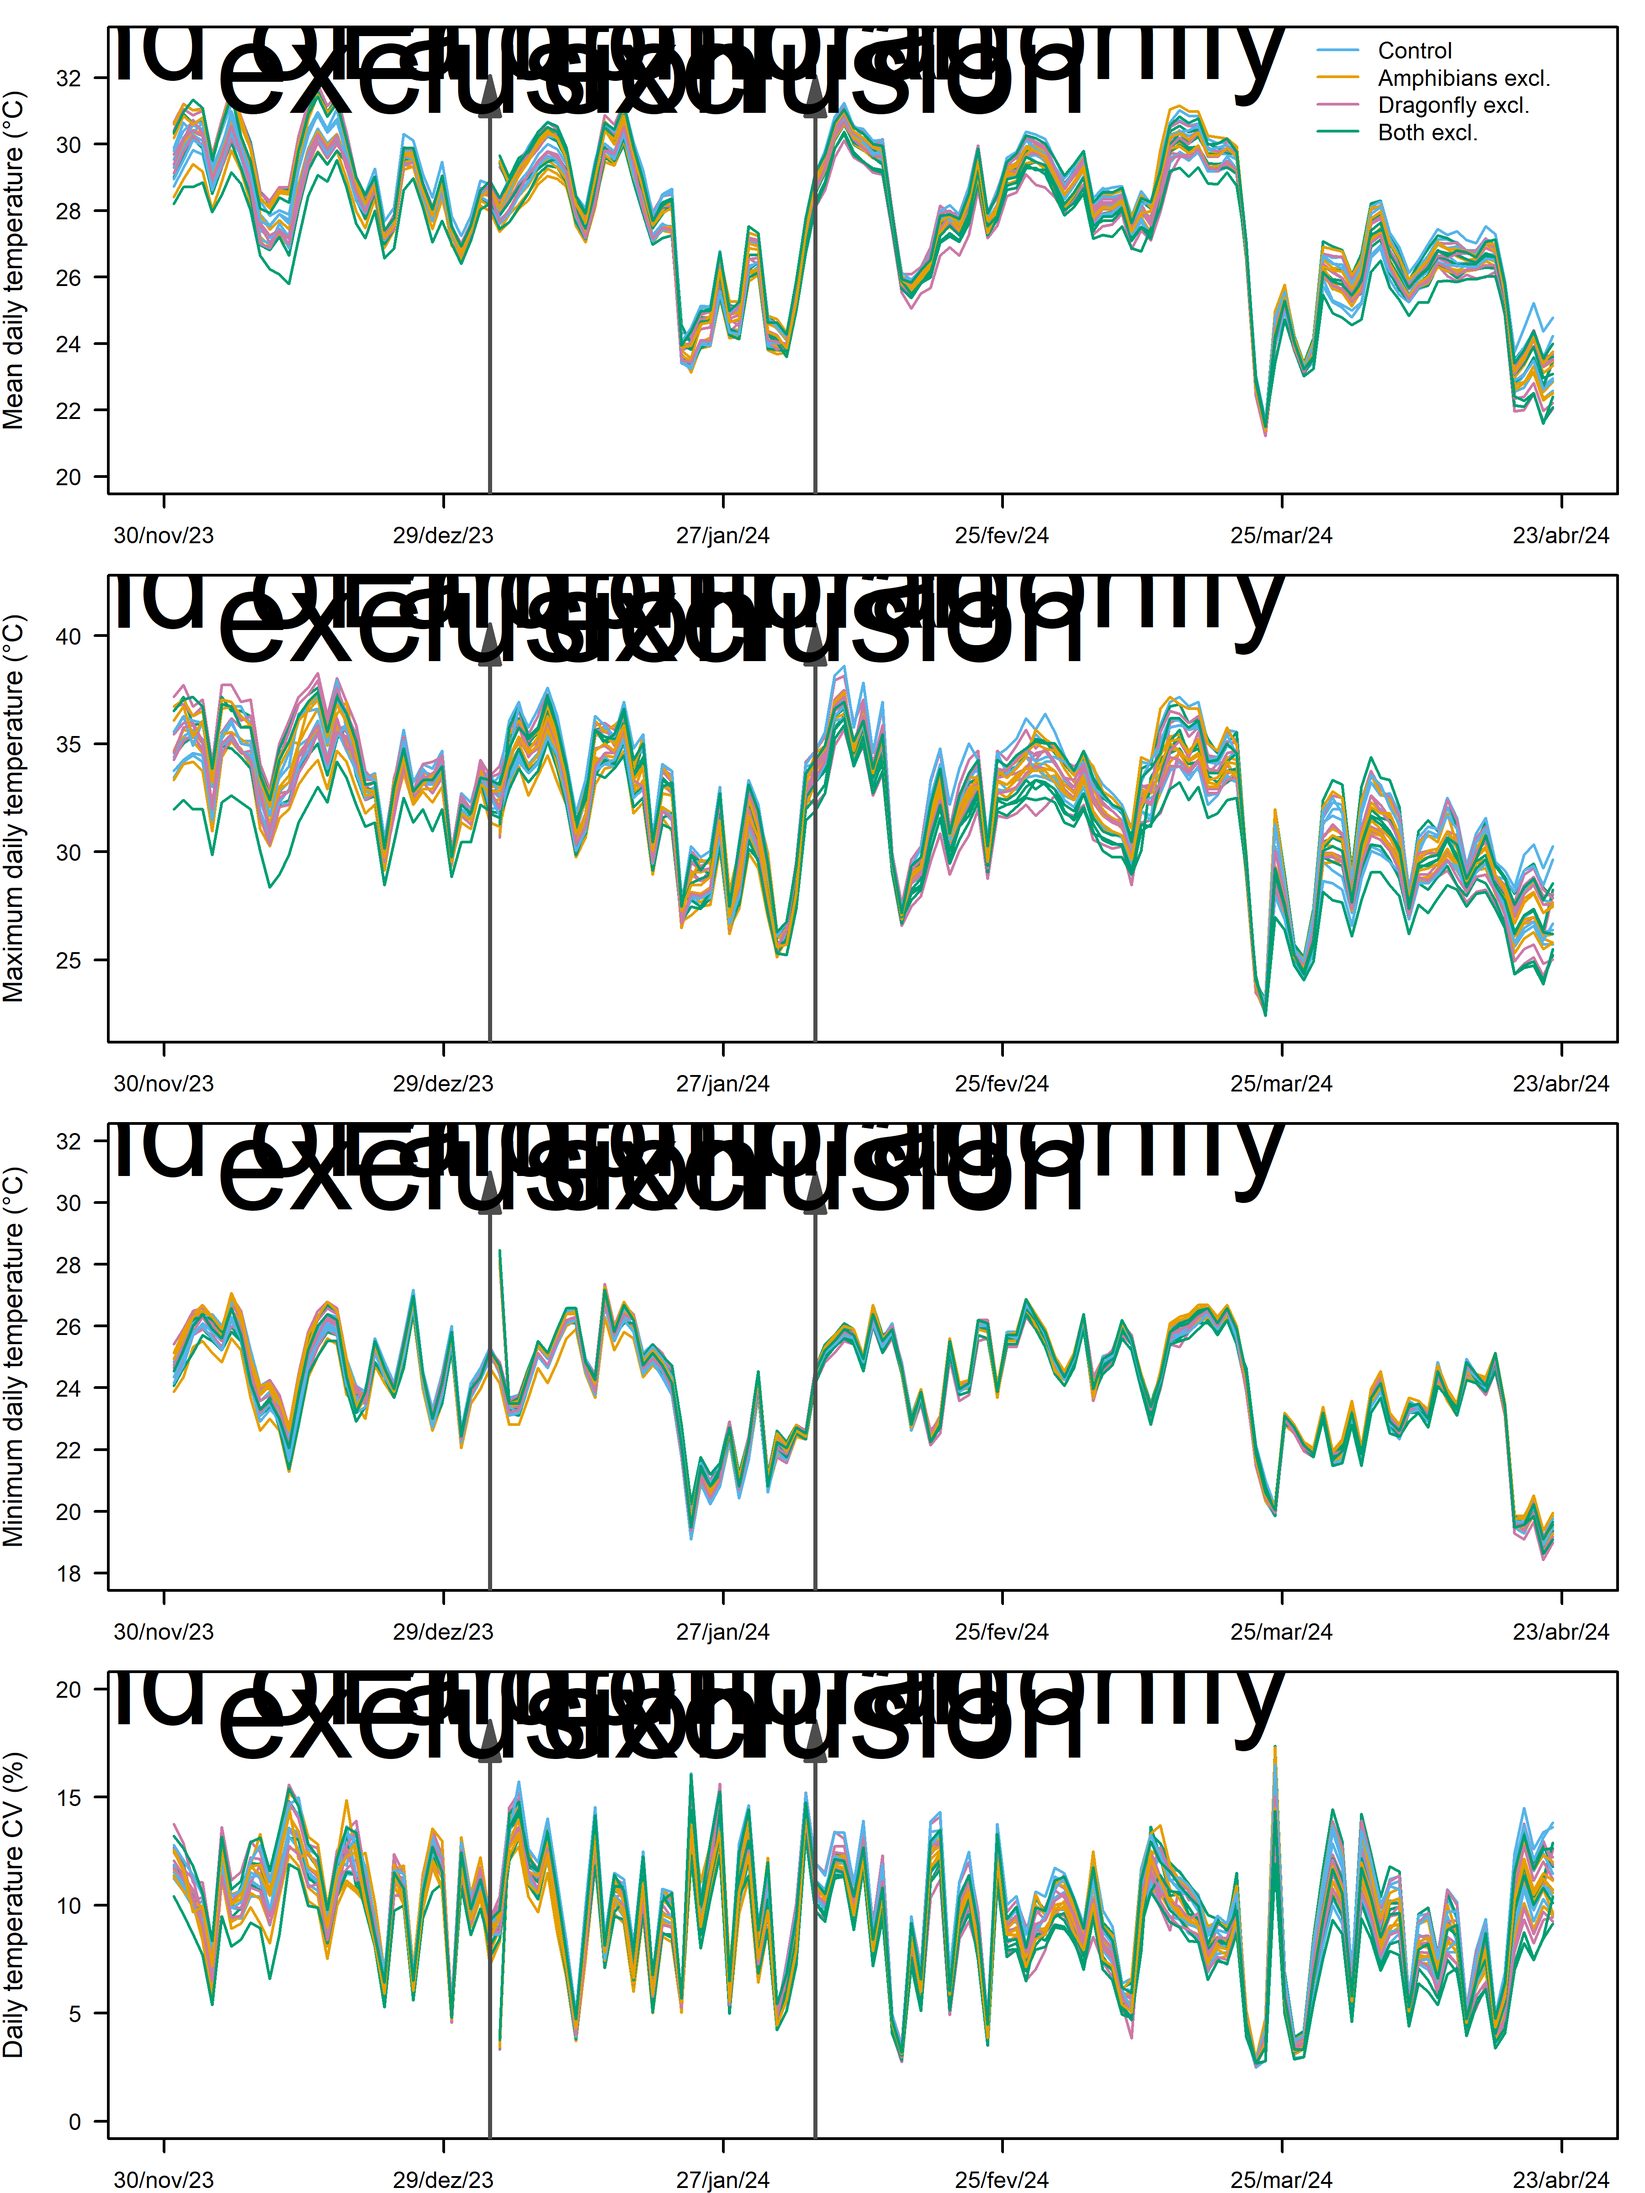
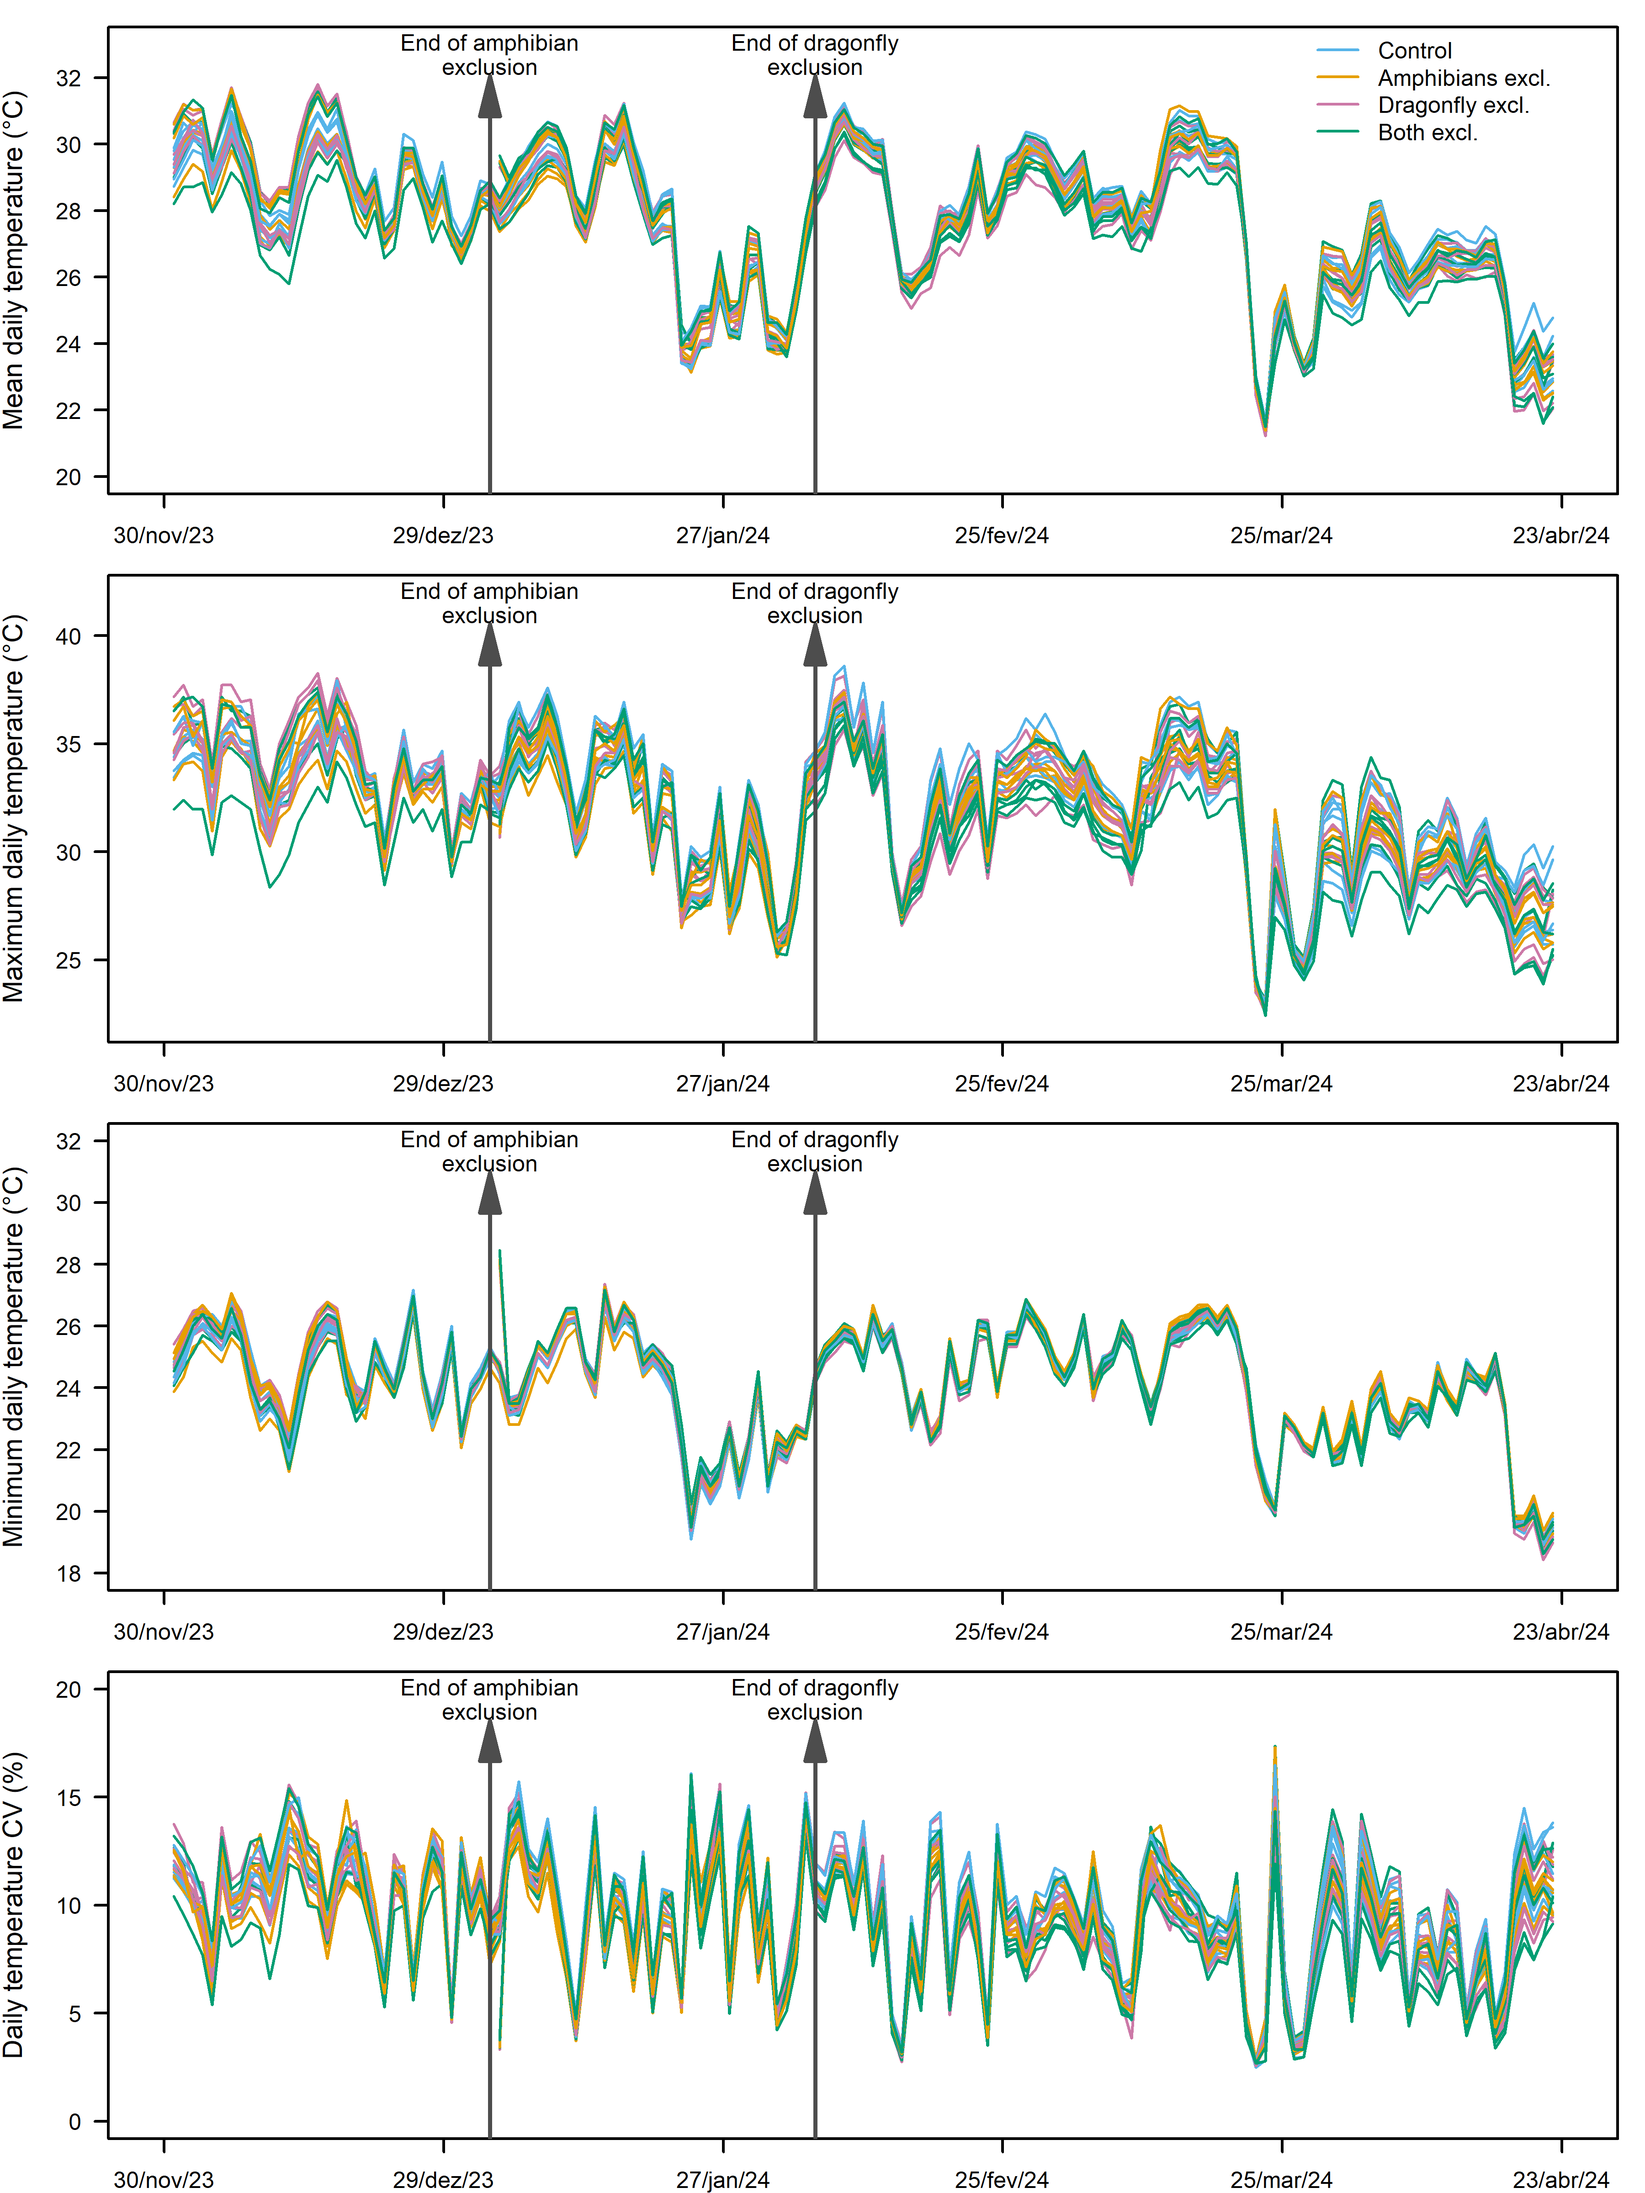
small update in figures

diff --git a/Markdowns/Hobo-data.md b/Markdowns/Hobo-data.md
@@ -156,9 +156,9 @@ Arrows(x0 = as.numeric(as.POSIXlt("03/01/2024", format = "%d/%m/%Y")),
        y1 = 88, arr.type = "triangle", lwd = 1.5, col = "grey30", arr.length = 0.3)
 
 text(x = as.numeric(as.POSIXlt("03/01/2024", format = "%d/%m/%Y")),
-     y = 100, label = "End of amphibian", cex = 5.8)
+     y = 100, label = "End of amphibian", cex = 1)
 text(x = as.numeric(as.POSIXlt("03/01/2024", format = "%d/%m/%Y")),
-     y = 95, label = "exclusion", cex = 5.8)
+     y = 95, label = "exclusion", cex = 1)
 
 
 Arrows(x0 = as.numeric(as.POSIXlt("06/02/2024", format = "%d/%m/%Y")),
@@ -167,9 +167,9 @@ Arrows(x0 = as.numeric(as.POSIXlt("06/02/2024", format = "%d/%m/%Y")),
        y1 = 88, arr.type = "triangle", lwd = 1.5, col = "grey30", arr.length = 0.3)
 
 text(x = as.numeric(as.POSIXlt("06/02/2024", format = "%d/%m/%Y")),
-     y = 100, label = "End of dragonfly", cex = 5.8)
+     y = 100, label = "End of dragonfly", cex = 1)
 text(x = as.numeric(as.POSIXlt("06/02/2024", format = "%d/%m/%Y")),
-     y = 95, label = "exclusion", cex = 5.8)
+     y = 95, label = "exclusion", cex = 1)
 
 
 legend(x = max(xlim),
@@ -218,9 +218,9 @@ Arrows(x0 = as.numeric(as.POSIXlt("03/01/2024", format = "%d/%m/%Y")),
        y1 = 88, arr.type = "triangle", lwd = 1.5, col = "grey30", arr.length = 0.3)
 
 text(x = as.numeric(as.POSIXlt("03/01/2024", format = "%d/%m/%Y")),
-     y = 100, label = "End of amphibian", cex = 5.8)
+     y = 100, label = "End of amphibian", cex = 1)
 text(x = as.numeric(as.POSIXlt("03/01/2024", format = "%d/%m/%Y")),
-     y = 95, label = "exclusion", cex = 5.8)
+     y = 95, label = "exclusion", cex = 1)
 
 
 Arrows(x0 = as.numeric(as.POSIXlt("06/02/2024", format = "%d/%m/%Y")),
@@ -229,9 +229,9 @@ Arrows(x0 = as.numeric(as.POSIXlt("06/02/2024", format = "%d/%m/%Y")),
        y1 = 88, arr.type = "triangle", lwd = 1.5, col = "grey30", arr.length = 0.3)
 
 text(x = as.numeric(as.POSIXlt("06/02/2024", format = "%d/%m/%Y")),
-     y = 100, label = "End of dragonfly", cex = 5.8)
+     y = 100, label = "End of dragonfly", cex = 1)
 text(x = as.numeric(as.POSIXlt("06/02/2024", format = "%d/%m/%Y")),
-     y = 95, label = "exclusion", cex = 5.8)
+     y = 95, label = "exclusion", cex = 1)
 
 
 
@@ -272,9 +272,9 @@ Arrows(x0 = as.numeric(as.POSIXlt("03/01/2024", format = "%d/%m/%Y")),
        y1 = 88, arr.type = "triangle", lwd = 1.5, col = "grey30", arr.length = 0.3)
 
 text(x = as.numeric(as.POSIXlt("03/01/2024", format = "%d/%m/%Y")),
-     y = 100, label = "End of amphibian", cex = 5.8)
+     y = 100, label = "End of amphibian", cex = 1)
 text(x = as.numeric(as.POSIXlt("03/01/2024", format = "%d/%m/%Y")),
-     y = 95, label = "exclusion", cex = 5.8)
+     y = 95, label = "exclusion", cex = 1)
 
 
 Arrows(x0 = as.numeric(as.POSIXlt("06/02/2024", format = "%d/%m/%Y")),
@@ -283,9 +283,9 @@ Arrows(x0 = as.numeric(as.POSIXlt("06/02/2024", format = "%d/%m/%Y")),
        y1 = 88, arr.type = "triangle", lwd = 1.5, col = "grey30", arr.length = 0.3)
 
 text(x = as.numeric(as.POSIXlt("06/02/2024", format = "%d/%m/%Y")),
-     y = 100, label = "End of dragonfly", cex = 5.8)
+     y = 100, label = "End of dragonfly", cex = 1)
 text(x = as.numeric(as.POSIXlt("06/02/2024", format = "%d/%m/%Y")),
-     y = 95, label = "exclusion", cex = 5.8)
+     y = 95, label = "exclusion", cex = 1)
 
 
 
@@ -328,9 +328,9 @@ Arrows(x0 = as.numeric(as.POSIXlt("03/01/2024", format = "%d/%m/%Y")),
        y1 = 88, arr.type = "triangle", lwd = 1.5, col = "grey30", arr.length = 0.3)
 
 text(x = as.numeric(as.POSIXlt("03/01/2024", format = "%d/%m/%Y")),
-     y = 100, label = "End of amphibian", cex = 5.8)
+     y = 100, label = "End of amphibian", cex = 1)
 text(x = as.numeric(as.POSIXlt("03/01/2024", format = "%d/%m/%Y")),
-     y = 95, label = "exclusion", cex = 5.8)
+     y = 95, label = "exclusion", cex = 1)
 
 
 Arrows(x0 = as.numeric(as.POSIXlt("06/02/2024", format = "%d/%m/%Y")),
@@ -339,9 +339,9 @@ Arrows(x0 = as.numeric(as.POSIXlt("06/02/2024", format = "%d/%m/%Y")),
        y1 = 88, arr.type = "triangle", lwd = 1.5, col = "grey30", arr.length = 0.3)
 
 text(x = as.numeric(as.POSIXlt("06/02/2024", format = "%d/%m/%Y")),
-     y = 100, label = "End of dragonfly", cex = 5.8)
+     y = 100, label = "End of dragonfly", cex = 1)
 text(x = as.numeric(as.POSIXlt("06/02/2024", format = "%d/%m/%Y")),
-     y = 95, label = "exclusion", cex = 5.8)
+     y = 95, label = "exclusion", cex = 1)
 ```
 
 ![](Hobo-data_files/figure-gfm/unnamed-chunk-6-1.png)<!-- -->
@@ -384,9 +384,9 @@ Arrows(x0 = as.numeric(as.POSIXlt("03/01/2024", format = "%d/%m/%Y")),
        y1 = 88, arr.type = "triangle", lwd = 1.5, col = "grey30", arr.length = 0.3)
 
 text(x = as.numeric(as.POSIXlt("03/01/2024", format = "%d/%m/%Y")),
-     y = 100, label = "End of amphibian", cex = 5.8)
+     y = 100, label = "End of amphibian", cex = 1)
 text(x = as.numeric(as.POSIXlt("03/01/2024", format = "%d/%m/%Y")),
-     y = 95, label = "exclusion", cex = 5.8)
+     y = 95, label = "exclusion", cex = 1)
 
 
 Arrows(x0 = as.numeric(as.POSIXlt("06/02/2024", format = "%d/%m/%Y")),
@@ -395,9 +395,9 @@ Arrows(x0 = as.numeric(as.POSIXlt("06/02/2024", format = "%d/%m/%Y")),
        y1 = 88, arr.type = "triangle", lwd = 1.5, col = "grey30", arr.length = 0.3)
 
 text(x = as.numeric(as.POSIXlt("06/02/2024", format = "%d/%m/%Y")),
-     y = 100, label = "End of dragonfly", cex = 5.8)
+     y = 100, label = "End of dragonfly", cex = 1)
 text(x = as.numeric(as.POSIXlt("06/02/2024", format = "%d/%m/%Y")),
-     y = 95, label = "exclusion", cex = 5.8)
+     y = 95, label = "exclusion", cex = 1)
 
 legend(x = min(xlim),
        y = 105,
@@ -447,9 +447,9 @@ Arrows(x0 = as.numeric(as.POSIXlt("03/01/2024", format = "%d/%m/%Y")),
        y1 = 88, arr.type = "triangle", lwd = 1.5, col = "grey30", arr.length = 0.3)
 
 text(x = as.numeric(as.POSIXlt("03/01/2024", format = "%d/%m/%Y")),
-     y = 100, label = "End of amphibian", cex = 5.8)
+     y = 100, label = "End of amphibian", cex = 1)
 text(x = as.numeric(as.POSIXlt("03/01/2024", format = "%d/%m/%Y")),
-     y = 95, label = "exclusion", cex = 5.8)
+     y = 95, label = "exclusion", cex = 1)
 
 
 Arrows(x0 = as.numeric(as.POSIXlt("06/02/2024", format = "%d/%m/%Y")),
@@ -458,9 +458,9 @@ Arrows(x0 = as.numeric(as.POSIXlt("06/02/2024", format = "%d/%m/%Y")),
        y1 = 88, arr.type = "triangle", lwd = 1.5, col = "grey30", arr.length = 0.3)
 
 text(x = as.numeric(as.POSIXlt("06/02/2024", format = "%d/%m/%Y")),
-     y = 100, label = "End of dragonfly", cex = 5.8)
+     y = 100, label = "End of dragonfly", cex = 1)
 text(x = as.numeric(as.POSIXlt("06/02/2024", format = "%d/%m/%Y")),
-     y = 95, label = "exclusion", cex = 5.8)
+     y = 95, label = "exclusion", cex = 1)
 
 
 
@@ -501,9 +501,9 @@ Arrows(x0 = as.numeric(as.POSIXlt("03/01/2024", format = "%d/%m/%Y")),
        y1 = 88, arr.type = "triangle", lwd = 1.5, col = "grey30", arr.length = 0.3)
 
 text(x = as.numeric(as.POSIXlt("03/01/2024", format = "%d/%m/%Y")),
-     y = 100, label = "End of amphibian", cex = 5.8)
+     y = 100, label = "End of amphibian", cex = 1)
 text(x = as.numeric(as.POSIXlt("03/01/2024", format = "%d/%m/%Y")),
-     y = 95, label = "exclusion", cex = 5.8)
+     y = 95, label = "exclusion", cex = 1)
 
 
 Arrows(x0 = as.numeric(as.POSIXlt("06/02/2024", format = "%d/%m/%Y")),
@@ -512,9 +512,9 @@ Arrows(x0 = as.numeric(as.POSIXlt("06/02/2024", format = "%d/%m/%Y")),
        y1 = 88, arr.type = "triangle", lwd = 1.5, col = "grey30", arr.length = 0.3)
 
 text(x = as.numeric(as.POSIXlt("06/02/2024", format = "%d/%m/%Y")),
-     y = 100, label = "End of dragonfly", cex = 5.8)
+     y = 100, label = "End of dragonfly", cex = 1)
 text(x = as.numeric(as.POSIXlt("06/02/2024", format = "%d/%m/%Y")),
-     y = 95, label = "exclusion", cex = 5.8)
+     y = 95, label = "exclusion", cex = 1)
 ```
 
 ![](Hobo-data_files/figure-gfm/unnamed-chunk-7-1.png)<!-- -->
